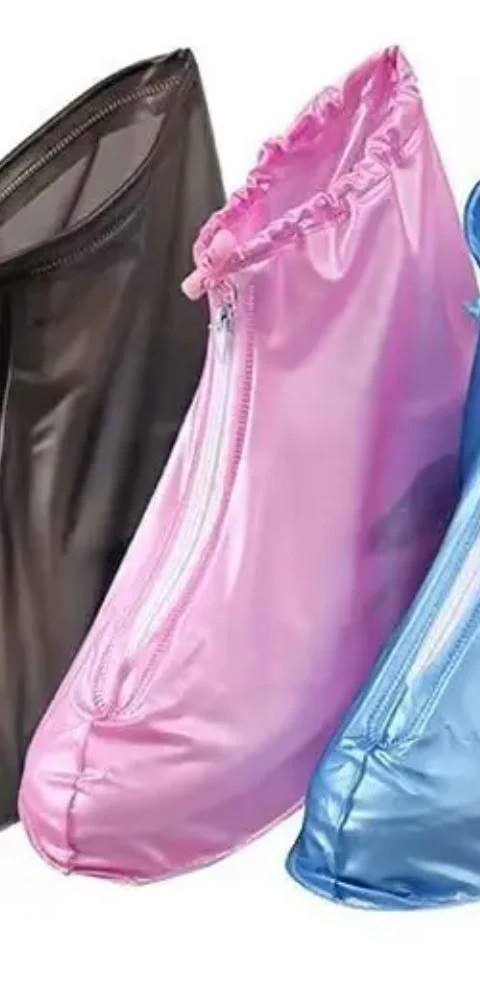
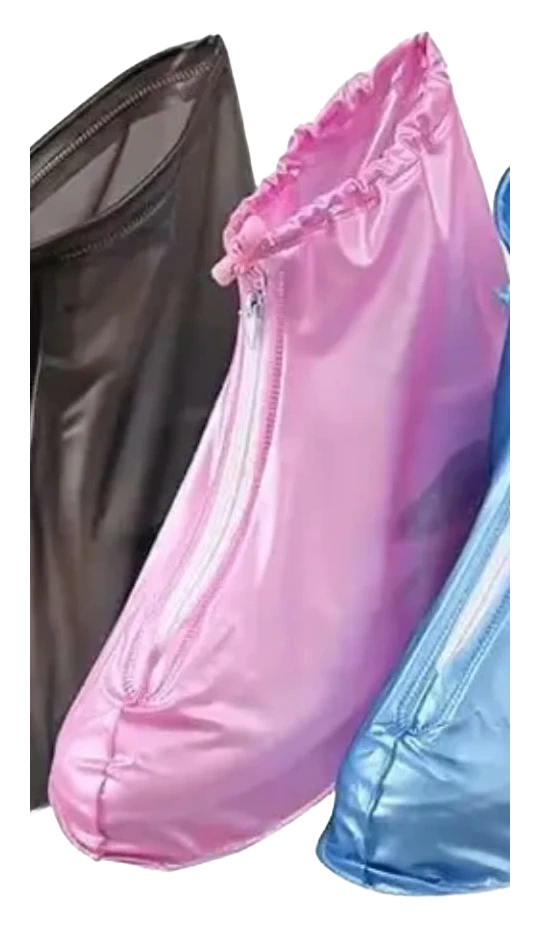
feat(gallery): match ecommerce reference with clean upright packshots, thumbnail carousel with arrow controls, and 100% transparent assets

diff --git a/components/ProductDetail.jsx b/components/ProductDetail.jsx
@@ -108,22 +108,13 @@ export default function ProductDetail({ product, isOpen, onClose, onSelectQuote 
   }, [isOpen]);
 
   useEffect(() => {
-    if (!isOpen || !imageRef.current || !product?.animation) return;
+    if (!isOpen || !imageRef.current) return;
 
-    const floating = product.animation.floating || {
-      amplitudeY: 16, duration: 3.5, ease: 'sine.inOut',
-      rotationDriftZ: 2.0, rotationDriftX: 3.0,
-    };
-
-    const baseScale = product.zoom || 1.0;
-    gsap.set(imageRef.current, { scale: baseScale });
-
+    // Upright, professional floating without 3D tilt/rotation (matching e-commerce standard)
     const tween = gsap.to(imageRef.current, {
-      y: -floating.amplitudeY * 1.2,
-      rotationZ: floating.rotationDriftZ,
-      rotationX: floating.rotationDriftX,
-      duration: floating.duration,
-      ease: floating.ease || 'sine.inOut',
+      y: -8,
+      duration: 2.8,
+      ease: 'sine.inOut',
       repeat: -1,
       yoyo: true,
     });
@@ -188,16 +179,16 @@ export default function ProductDetail({ product, isOpen, onClose, onSelectQuote 
 
         {/* Product Image Area with Auto-Swipe Carousel matching user's reference */}
         <div
-          className="relative w-full bg-gradient-to-b from-cream-50 via-cream-100/50 to-white px-4 sm:px-6 pt-10 pb-4 flex flex-col items-center justify-center overflow-hidden"
+          className="relative w-full bg-gradient-to-b from-cream-50 via-cream-100/40 to-white px-4 sm:px-6 pt-12 pb-3 flex flex-col items-center justify-center overflow-hidden"
           onMouseEnter={() => setIsPaused(true)}
           onMouseLeave={() => setIsPaused(false)}
         >
           {/* Ambient glow */}
-          <div className="absolute inset-0 bg-[radial-gradient(circle_at_50%_40%,rgba(244,223,170,0.3),rgba(255,255,255,0))] pointer-events-none"></div>
+          <div className="absolute inset-0 bg-[radial-gradient(circle_at_50%_40%,rgba(244,223,170,0.25),rgba(255,255,255,0))] pointer-events-none"></div>
 
           {/* Category Badge & Live Auto-Swipe Progress */}
-          <div className="absolute top-4 left-4 z-10 flex items-center gap-2">
-            <span className="text-[10px] font-bold uppercase tracking-widest px-3 py-1 rounded-full bg-gold-100 border border-gold-500/30 text-gold-800">
+          <div className="absolute top-3.5 left-4 z-10 flex items-center gap-2">
+            <span className="text-[10px] font-bold uppercase tracking-widest px-3 py-1 rounded-full bg-gold-100/90 border border-gold-500/30 text-gold-800 shadow-2xs">
               {product.category}
             </span>
             {galleryImages.length > 1 && (
@@ -208,22 +199,11 @@ export default function ProductDetail({ product, isOpen, onClose, onSelectQuote 
             )}
           </div>
 
-          {/* Main Floating Image Stage with Side Arrows */}
-          <div className="relative w-full flex items-center justify-center my-1">
-            {galleryImages.length > 1 && (
-              <button
-                type="button"
-                onClick={handlePrev}
-                className="absolute left-1 sm:left-2 z-20 w-8 h-8 sm:w-9 sm:h-9 rounded-full bg-white/90 hover:bg-white text-navy-900 border border-cream-300 shadow-md flex items-center justify-center transition-all opacity-80 hover:opacity-100 hover:scale-110 cursor-pointer"
-                aria-label="Previous image"
-              >
-                <ChevronLeft className="w-5 h-5 text-navy-900" />
-              </button>
-            )}
-
+          {/* Main Upright Product Packshot (Matching Reference Photo) */}
+          <div className="relative w-full flex items-center justify-center my-0.5">
             <div
               ref={imageRef}
-              className="relative z-10 w-full h-56 sm:h-72 flex items-center justify-center product-image-wrap perspective-container"
+              className="relative z-10 w-full h-48 sm:h-60 flex items-center justify-center product-image-wrap"
             >
               <Image
                 key={currentDisplayImage}
@@ -231,41 +211,30 @@ export default function ProductDetail({ product, isOpen, onClose, onSelectQuote 
                 alt={`${product.name} - slide ${activeImageIndex + 1}`}
                 width={800}
                 height={800}
-                className="max-h-full max-w-full object-contain filter drop-shadow-[0_16px_32px_rgba(12,31,59,0.28)] select-none transition-all duration-300"
+                className="max-h-full max-w-full object-contain filter drop-shadow-[0_12px_24px_rgba(12,31,59,0.18)] select-none transition-all duration-300"
                 priority
               />
             </div>
-
-            {galleryImages.length > 1 && (
-              <button
-                type="button"
-                onClick={handleNext}
-                className="absolute right-1 sm:right-2 z-20 w-8 h-8 sm:w-9 sm:h-9 rounded-full bg-white/90 hover:bg-white text-navy-900 border border-cream-300 shadow-md flex items-center justify-center transition-all opacity-80 hover:opacity-100 hover:scale-110 cursor-pointer"
-                aria-label="Next image"
-              >
-                <ChevronRight className="w-5 h-5 text-navy-900" />
-              </button>
-            )}
           </div>
 
           {/* Ground Shadow */}
-          <div className="w-28 h-3.5 rounded-[100%] bg-navy-950/20 blur-lg pointer-events-none mt-1"></div>
+          <div className="w-24 sm:w-28 h-2.5 rounded-[100%] bg-navy-950/15 blur-md pointer-events-none mt-0.5"></div>
 
-          {/* Thumbnail Gallery Strip (EXACT MATCH TO REFERENCE PHOTO) */}
+          {/* Thumbnail Gallery Strip with < and > Arrows (EXACT MATCH TO REFERENCE PHOTO) */}
           {galleryImages.length > 1 && (
-            <div className="w-full flex items-center justify-center gap-2 mt-3 pt-3 border-t border-cream-200/80">
-              {/* Left Arrow */}
+            <div className="w-full flex items-center justify-center gap-2 sm:gap-3 mt-2.5 pt-2.5 border-t border-cream-200/90">
+              {/* Left Arrow Button */}
               <button
                 type="button"
                 onClick={handlePrev}
-                className="w-8 h-8 rounded-lg bg-white border border-cream-300 hover:border-amber-500 text-navy-700 hover:text-navy-950 shadow-2xs flex items-center justify-center transition-all cursor-pointer shrink-0"
-                aria-label="Previous thumbnail"
+                className="w-8 h-8 rounded-lg bg-white border border-cream-300 hover:border-amber-500 hover:bg-amber-50/50 text-navy-700 hover:text-amber-700 shadow-2xs flex items-center justify-center transition-all cursor-pointer shrink-0 active:scale-95"
+                aria-label="Previous image"
               >
-                <ChevronLeft className="w-4 h-4" />
+                <ChevronLeft className="w-4.5 h-4.5" />
               </button>
 
               {/* Thumbnails Row */}
-              <div className="flex items-center gap-2 overflow-x-auto py-1 px-1 scrollbar-none max-w-full">
+              <div className="flex items-center gap-2 overflow-x-auto py-1 px-1 scrollbar-none max-w-[calc(100%-80px)] justify-center">
                 {galleryImages.map((imgUrl, idx) => {
                   const isActive = idx === activeImageIndex;
                   return (
@@ -275,7 +244,7 @@ export default function ProductDetail({ product, isOpen, onClose, onSelectQuote 
                       onClick={() => handleSelectThumbnail(idx)}
                       className={`relative w-12 h-12 sm:w-14 sm:h-14 rounded-lg bg-white p-1 flex items-center justify-center transition-all duration-200 cursor-pointer shrink-0 ${
                         isActive
-                          ? 'border-2 border-amber-500 ring-2 ring-amber-400/40 shadow-sm scale-105'
+                          ? 'border-2 border-amber-500 ring-2 ring-amber-400/35 shadow-sm scale-105'
                           : 'border border-cream-300 hover:border-amber-400/80 opacity-70 hover:opacity-100'
                       }`}
                     >
@@ -291,14 +260,14 @@ export default function ProductDetail({ product, isOpen, onClose, onSelectQuote 
                 })}
               </div>
 
-              {/* Right Arrow */}
+              {/* Right Arrow Button */}
               <button
                 type="button"
                 onClick={handleNext}
-                className="w-8 h-8 rounded-lg bg-white border border-cream-300 hover:border-amber-500 text-navy-700 hover:text-navy-950 shadow-2xs flex items-center justify-center transition-all cursor-pointer shrink-0"
-                aria-label="Next thumbnail"
+                className="w-8 h-8 rounded-lg bg-white border border-cream-300 hover:border-amber-500 hover:bg-amber-50/50 text-navy-700 hover:text-amber-700 shadow-2xs flex items-center justify-center transition-all cursor-pointer shrink-0 active:scale-95"
+                aria-label="Next image"
               >
-                <ChevronRight className="w-4 h-4" />
+                <ChevronRight className="w-4.5 h-4.5" />
               </button>
             </div>
           )}

diff --git a/components/ProductCard.jsx b/components/ProductCard.jsx
@@ -177,7 +177,7 @@ export default function ProductCard({ product, onSelectQuote, onSelectDetail, co
             width={product.image.width}
             height={product.image.height}
             onLoad={() => setIsLoaded(true)}
-            className={`max-h-full max-w-full object-contain filter drop-shadow-[0_8px_16px_rgba(12,31,59,0.22)] sm:drop-shadow-[0_10px_20px_rgba(12,31,59,0.28)] select-none transition-opacity duration-300 ${
+            className={`max-h-full max-w-full object-contain filter drop-shadow-[0_8px_14px_rgba(12,31,59,0.14)] sm:drop-shadow-[0_10px_18px_rgba(12,31,59,0.18)] select-none transition-opacity duration-300 ${
               isLoaded ? 'opacity-100' : 'opacity-0'
             }`}
             priority={priority}
